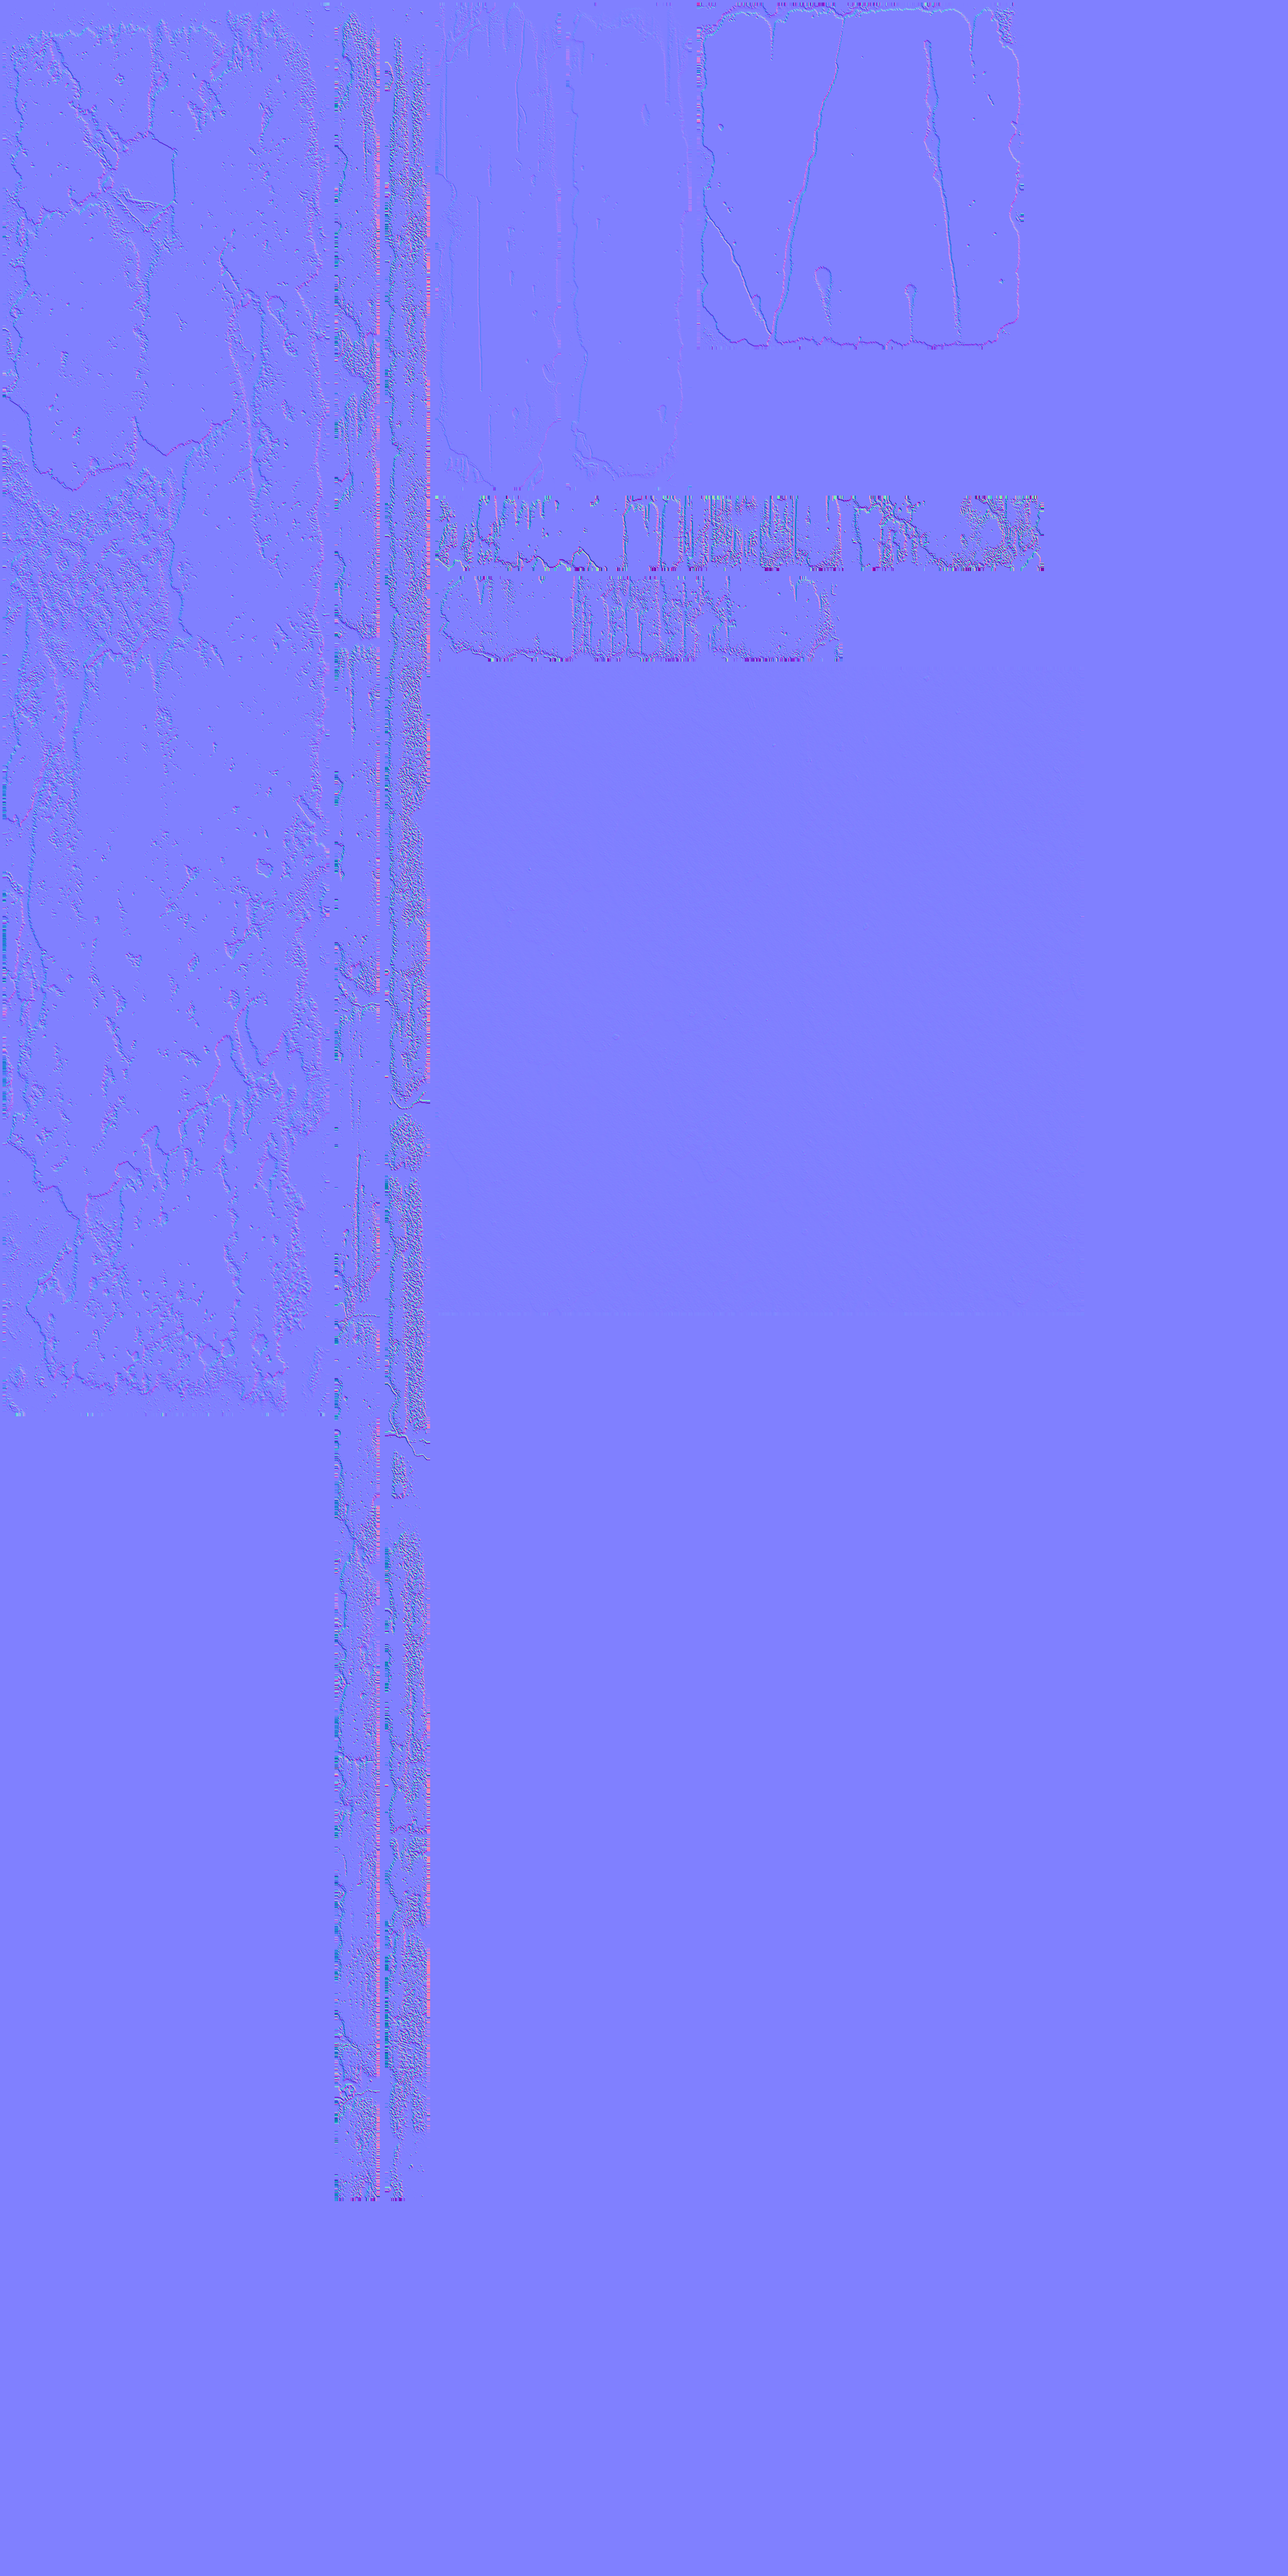
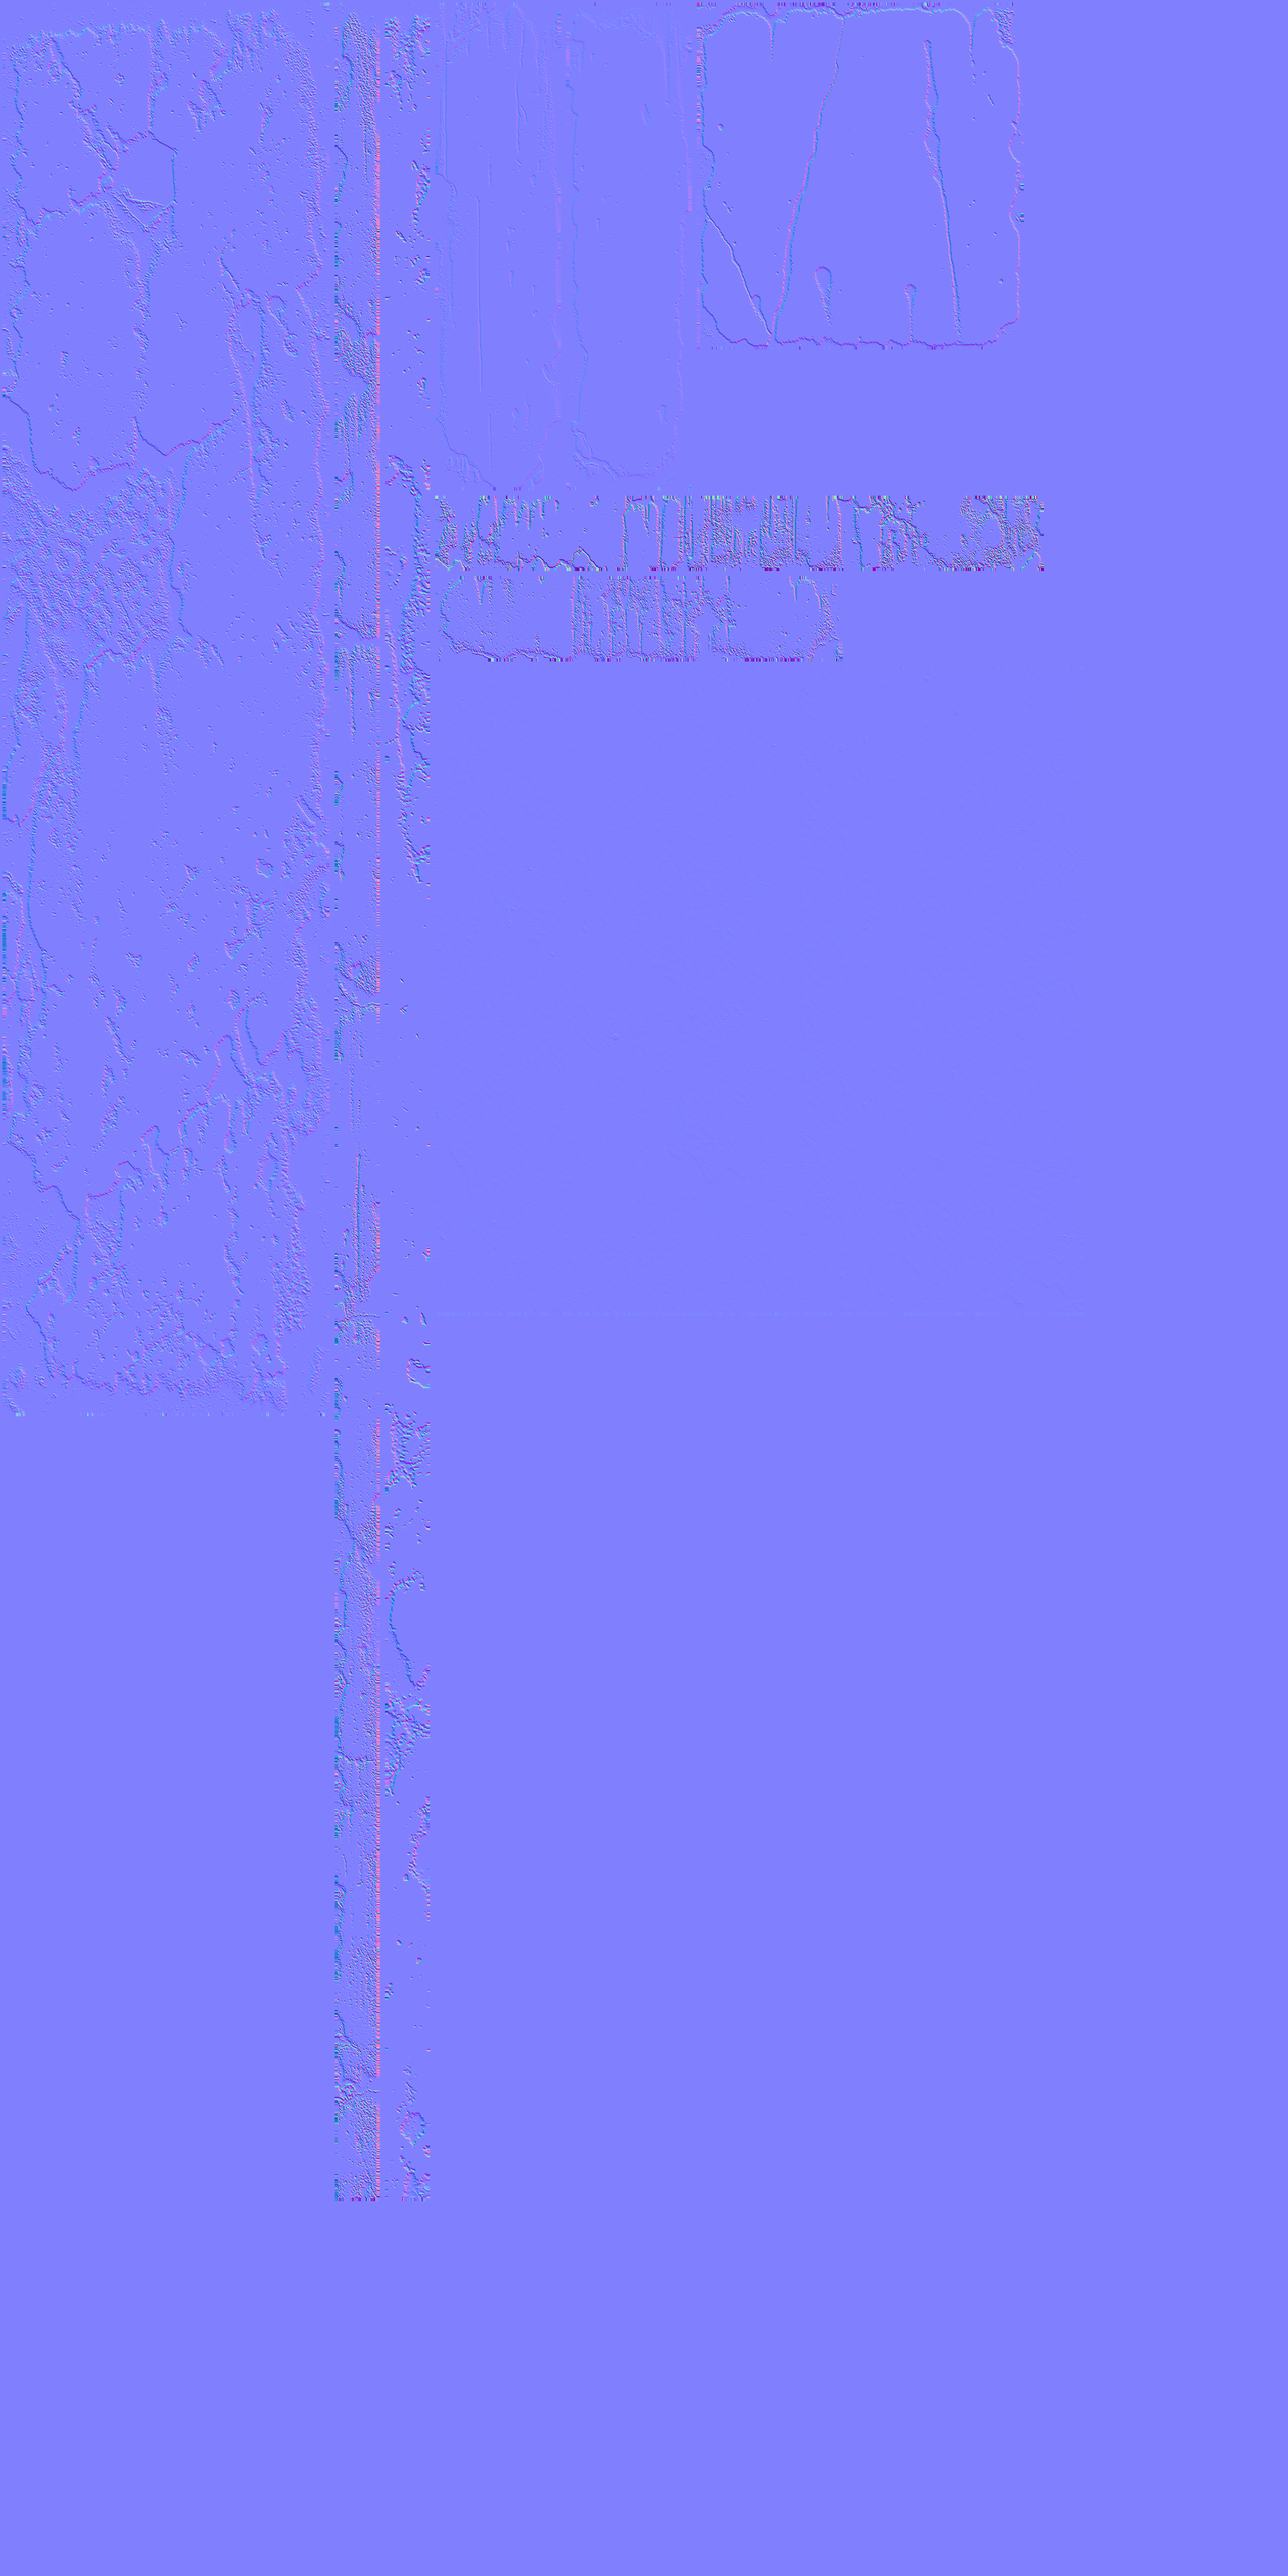
Remove the banded paint swatch from the near locker stile (#114)

Changed region(s): [[0.2812, 0.0, 0.3438, 0.875]]

diff --git a/tools/quarters_aging/locker_faces.py b/tools/quarters_aging/locker_faces.py
@@ -77,6 +77,15 @@ def eligible(row, hardware=False):
             and (hardware or row['edge_broad_ratio'] >= 1.8))
 
 
+def face_image(name, selection):
+    if name == 'stile-right':
+        # A 40 mm door-paint strip replaces the banded concept crop without
+        # changing the stile's physical scale or its padded atlas allocation.
+        door = Image.open(SOURCE / selection['door']['chosen']).convert('RGB')
+        return door.crop((380, 0, 420, 2200)).resize(image_size(FACES[name]), Image.Resampling.LANCZOS)
+    return Image.open(SOURCE / selection[name]['chosen']).convert('RGB')
+
+
 def pack(selection, output=SOURCE):
     atlas = np.zeros((ATLAS[1], ATLAS[0], 4), np.uint8)
     normal = np.zeros_like(atlas)
@@ -84,7 +93,7 @@ def pack(selection, output=SOURCE):
     orm = np.zeros_like(atlas)
     orm[:] = [255,230,0,0]
     for name, face in FACES.items():
-        image = Image.open(SOURCE / selection[name]['chosen']).convert('RGB')
+        image = face_image(name, selection)
         if image.size != image_size(face):
             raise ValueError(f'wrong face size: {name}')
         colour, paint = paint_fields(image)
@@ -117,7 +126,10 @@ def pack(selection, output=SOURCE):
 
 def manifest():
     rows = {}
-    for name, face in FACES.items():
+    for name, source in FACES.items():
+        face = dict(source)
+        if name == 'stile-right':
+            face['material_source'] = 'door image pixels [380, 0, 420, 2200], a 40 mm strip at matching physical scale; replaces the banded concept swatch'
         x0,y0,x1,y1 = face['rect']
         rows[name] = dict(face, uv_rectangle=[x0/ATLAS[0], y0/ATLAS[1], x1/ATLAS[0], y1/ATLAS[1]],
                           pixels_per_metre=[(x1-x0)/face['size'][0],(y1-y0)/face['size'][1]])

diff --git a/tools/quarters_aging/test_locker_faces.py b/tools/quarters_aging/test_locker_faces.py
@@ -19,6 +19,17 @@ class FaceTests(unittest.TestCase):
             occupied[y0-4:y1+4,x0-4:x1+4] = True
             self.assertGreaterEqual(min(row['pixels_per_metre']),600 if name=='door' else 300)
 
+    def test_runtime_stile_matches_adjacent_door_paint(self):
+        import json
+        selection = json.loads((faces.SOURCE/'selection.json').read_text())
+        door = Image.open(faces.SOURCE/selection['door']['chosen']).convert('RGB')
+        expected = np.asarray(door.crop((380,0,420,2200)).resize((64,3488), Image.Resampling.LANCZOS))
+        np.testing.assert_array_equal(np.asarray(faces.face_image('stile-right', selection)), expected)
+        atlas = np.asarray(Image.open(faces.RUNTIME/'aged-face-albedo.png'))
+        x0,y0,x1,y1 = faces.FACES['stile-right']['rect']
+        np.testing.assert_array_equal(atlas[y0:y1,x0:x1,:3], expected)
+        self.assertEqual(faces.manifest(), json.loads((faces.RUNTIME/'face-layout.json').read_text()))
+
     def test_no_procedural_field_drives_colour(self):
         implementation = inspect.getsource(faces.pack)
         for old_generator in ('noise(', 'blister_field', 'gravity_runs', 'edge_reach'):
